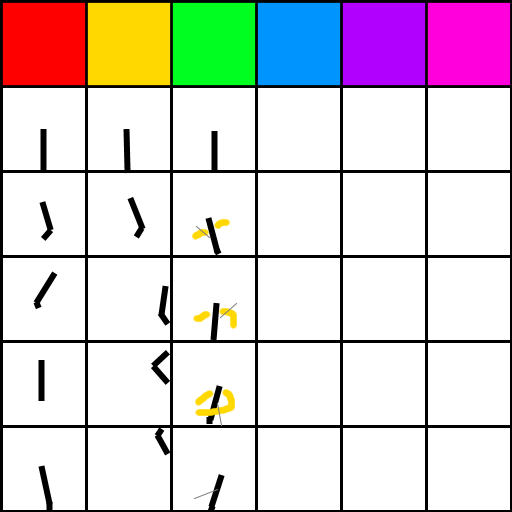
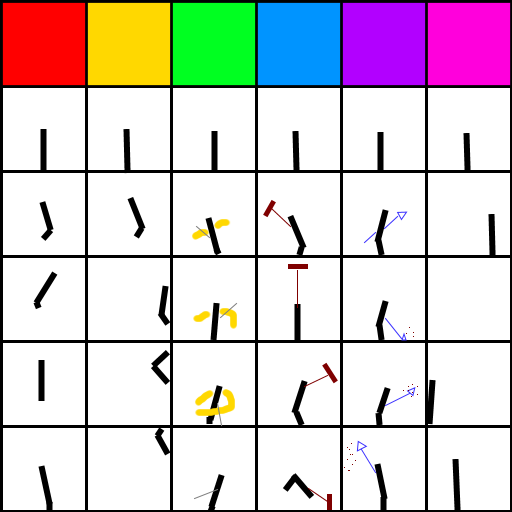
work in progress

diff --git a/MuddyGames-gameplay-programming-i-lab-03-60ce4b8b1ccb/AnimationFSM/Player.cpp b/MuddyGames-gameplay-programming-i-lab-03-60ce4b8b1ccb/AnimationFSM/Player.cpp
@@ -2,6 +2,7 @@
 #include <Player.h>
 #include <Idle.h>
 #include <Debug.h>
+#include <State.h>
 
 Player::Player()
 {
@@ -9,7 +10,7 @@ Player::Player()
 	m_state.setPrevious(new Idle());
 }
 
-Player::Player(const AnimatedSprite& s, const AnimatedSprite& s1, const AnimatedSprite& s2, const AnimatedSprite& s3) : m_animated_sprite(s),
+Player::Player(const AnimatedSprite& s, const AnimatedSprite& s1, const AnimatedSprite& s2, const AnimatedSprite& s3) : m_idle_sprite(s),
 m_jump_animation(s1),
 m_climb_animation(s2),
 m_sword_animation(s3)
@@ -22,9 +23,9 @@ Player::~Player() {}
 
 AnimatedSprite& Player::getAnimatedSprite()
 {
-	int frame = m_animated_sprite.getCurrentFrame();
-	m_animated_sprite.setTextureRect(m_animated_sprite.getFrame(frame));
-	return m_animated_sprite;
+	int frame = m_idle_sprite.getCurrentFrame();
+	m_idle_sprite.setTextureRect(m_idle_sprite.getFrame(frame));
+	return m_idle_sprite;
 }
 
 void Player::handleInput(Input in)
@@ -39,14 +40,26 @@ void Player::handleInput(Input in)
 		break;
 	case Input::Action::UP:
 		//std::cout << "Player Up" << std::endl;
-		m_state.climbing();
+		m_state.jumping();
 		break;
 	case Input::Action::LEFT:
 		//std::cout << "Player Left" << std::endl;
-		m_state.jumping();
+		m_state.walking();
 		break;
 	case Input::Action::RIGHT:
-		//std::cout << "Player Idling" << std::endl;
+		//std::cout << "Player Right" << std::endl;
+		m_state.walking();
+		break;
+	case Input::Action::CLIMB:
+		//std::cout << "Player Climbing" << std::endl;
+		m_state.climbing();
+		break;
+	case Input::Action::SHOVEL:
+		//std::cout << "Player Shovelling" << std::endl;
+		m_state.shovelling();
+		break;
+	case Input::Action::JUMP:
+		//std::cout << "Player Jumping" << std::endl;
 		m_state.jumping();
 		break;
 	default:
@@ -57,5 +70,6 @@ void Player::handleInput(Input in)
 void Player::update()
 {
 	//std::cout << "Handle Update" << std::endl;
-	m_animated_sprite.update();
+	m_idle_sprite.update();
+	//m_sword_animation.update();
 }

diff --git a/MuddyGames-gameplay-programming-i-lab-03-60ce4b8b1ccb/AnimationFSM/Idle.cpp b/MuddyGames-gameplay-programming-i-lab-03-60ce4b8b1ccb/AnimationFSM/Idle.cpp
@@ -11,11 +11,45 @@ void Idle::jumping(PlayerFSM* a)
 {
 	std::cout << "Idle -> Jumping" << std::endl;
 	a->setCurrent(new Jumping());
+	a->setPrevious(new Idle());
 	delete this;
 }
 void Idle::climbing(PlayerFSM* a)
 {
 	std::cout << "Idle -> Climbing" << std::endl;
 	a->setCurrent(new Climbing());
+	a->setPrevious(new Idle());
+	delete this;
+}
+
+void Idle::sworsmanship(PlayerFSM * a)
+{
+	std::cout << "Idle -> Swordsmanship" << std::endl;
+	a->setCurrent(new Jumping());
+	a->setPrevious(new Idle());
+	delete this;
+}
+
+void Idle::walking(PlayerFSM * a)
+{
+	std::cout << "Idle -> Walking" << std::endl;
+	a->setCurrent(new Jumping());
+	a->setPrevious(new Idle());
+	delete this;
+}
+
+void Idle::shovelling(PlayerFSM * a)
+{
+	std::cout << "Idle -> Shovelling" << std::endl;
+	a->setCurrent(new Jumping());
+	a->setPrevious(new Idle());
+	delete this;
+}
+
+void Idle::hammering(PlayerFSM * a)
+{
+	std::cout << "Idle -> Hammering" << std::endl;
+	a->setCurrent(new Jumping());
+	a->setPrevious(new Idle());
 	delete this;
 }

diff --git a/MuddyGames-gameplay-programming-i-lab-03-60ce4b8b1ccb/AnimationFSM/main.cpp b/MuddyGames-gameplay-programming-i-lab-03-60ce4b8b1ccb/AnimationFSM/main.cpp
@@ -85,6 +85,22 @@ int main()
 				{
 					input.setCurrent(Input::Action::UP);
 				}	
+				else if (sf::Keyboard::isKeyPressed(sf::Keyboard::Space))
+				{
+					input.setCurrent(Input::Action::SWORD);
+				}
+				else if (sf::Keyboard::isKeyPressed(sf::Keyboard::H))
+				{
+					input.setCurrent(Input::Action::HAMMER);
+				}
+				else if (sf::Keyboard::isKeyPressed(sf::Keyboard::S))
+				{
+					input.setCurrent(Input::Action::SHOVEL);
+				}
+				else if (sf::Keyboard::isKeyPressed(sf::Keyboard::C))
+				{
+					input.setCurrent(Input::Action::CLIMB);
+				}
 				break;
 			default:
 

diff --git a/MuddyGames-gameplay-programming-i-lab-03-60ce4b8b1ccb/AnimationFSM/State.h b/MuddyGames-gameplay-programming-i-lab-03-60ce4b8b1ccb/AnimationFSM/State.h
@@ -27,6 +27,22 @@ public:
 	{
 		DEBUG_MSG("State::Climbing");
 	}
+	virtual void hammering(PlayerFSM* a)
+	{
+		DEBUG_MSG("State::Climbing");
+	}
+	virtual void shovelling(PlayerFSM* a)
+	{
+		DEBUG_MSG("State::Shovelling");
+	}
+	virtual void swordsmanship(PlayerFSM* a)
+	{
+		DEBUG_MSG("State::Swordsmanship");
+	}
+	virtual void walking(PlayerFSM* a)
+	{
+		DEBUG_MSG("State::Walking");
+	}
 };
 
 #endif // ! ANIMATION_H

diff --git a/MuddyGames-gameplay-programming-i-lab-03-60ce4b8b1ccb/AnimationFSM/Swordsmanship.h b/MuddyGames-gameplay-programming-i-lab-03-60ce4b8b1ccb/AnimationFSM/Swordsmanship.h
@@ -1,12 +1,17 @@
-#ifndef SWORDSMANSHIP.H
-#define SWORDSMANSHIP.H
+#ifndef SWORDSMANSHIP_H
+#define SWORDSMANSHIP_H
 
 #include"State.h"
 
 class Swordsmanship : public State
 {
 public:
-
+	Swordsmanship() {};
+	~Swordsmanship() {};
+	void handleInput();
+	void update();
+	void idle(PlayerFSM* a);
+	void jumping(PlayerFSM* a);
 };
 
 #endif // !SWORDSMANSHIP

diff --git a/MuddyGames-gameplay-programming-i-lab-03-60ce4b8b1ccb/AnimationFSM/PlayerMachine.cpp b/MuddyGames-gameplay-programming-i-lab-03-60ce4b8b1ccb/AnimationFSM/PlayerMachine.cpp
@@ -42,3 +42,23 @@ void PlayerFSM::climbing()
 {
 	m_current->climbing(this);
 }
+
+void PlayerFSM::walking()
+{
+	m_current->walking(this);
+}
+
+void PlayerFSM::hammering()
+{
+	m_current->hammering(this);
+}
+
+void PlayerFSM::swordsmanship()
+{
+	m_current->swordsmanship(this);
+}
+
+void PlayerFSM::shovelling()
+{
+	m_current->shovelling(this);
+}

diff --git a/MuddyGames-gameplay-programming-i-lab-03-60ce4b8b1ccb/AnimationFSM/Swordsmanship.cpp b/MuddyGames-gameplay-programming-i-lab-03-60ce4b8b1ccb/AnimationFSM/Swordsmanship.cpp
@@ -1,0 +1,21 @@
+#include "Swordsmanship.h"
+#include "Jumping.h"
+
+void Swordsmanship::handleInput()
+{
+}
+
+void Swordsmanship::update()
+{
+}
+
+void Swordsmanship::idle(PlayerFSM * a)
+{
+}
+
+void Swordsmanship::jumping(PlayerFSM * a)
+{
+	std::cout << "Idle -> Jumping" << std::endl;
+	a->setCurrent(new Jumping());
+	delete this;
+}

diff --git a/MuddyGames-gameplay-programming-i-lab-03-60ce4b8b1ccb/AnimationFSM/Shovelling.h b/MuddyGames-gameplay-programming-i-lab-03-60ce4b8b1ccb/AnimationFSM/Shovelling.h
@@ -1,12 +1,17 @@
-#ifndef SHOVELLING.H
-#define SHOVELLING.H
+#ifndef SHOVELLING_H
+#define SHOVELLING_H
 
 #include"State.h"
 
 class Shovelling : public State
 {
 public:
-
+	Shovelling() {};
+	~Shovelling() {};
+	void handleInput();
+	void update();
+	void idle(PlayerFSM* a);
+	void jumping(PlayerFSM* a);
 };
 
 #endif // !SHOVELLING.H

diff --git a/MuddyGames-gameplay-programming-i-lab-03-60ce4b8b1ccb/AnimationFSM/Shovelling.cpp b/MuddyGames-gameplay-programming-i-lab-03-60ce4b8b1ccb/AnimationFSM/Shovelling.cpp
@@ -1,0 +1,21 @@
+#include "Shovelling.h"
+#include "Jumping.h"
+
+void Shovelling::handleInput()
+{
+}
+
+void Shovelling::update()
+{
+}
+
+void Shovelling::idle(PlayerFSM * a)
+{
+}
+
+void Shovelling::jumping(PlayerFSM * a)
+{
+	std::cout << "Idle -> Jumping" << std::endl;
+	a->setCurrent(new Jumping());
+	delete this;
+}

diff --git a/MuddyGames-gameplay-programming-i-lab-03-60ce4b8b1ccb/AnimationFSM/Hammering.cpp b/MuddyGames-gameplay-programming-i-lab-03-60ce4b8b1ccb/AnimationFSM/Hammering.cpp
@@ -1,0 +1,21 @@
+#include "Hammering.h"
+#include "Jumping.h"
+
+void Hammering::handleInput()
+{
+}
+
+void Hammering::update()
+{
+}
+
+void Hammering::idle(PlayerFSM * a)
+{
+}
+
+void Hammering::jumping(PlayerFSM * a)
+{
+	std::cout << "Idle -> Jumping" << std::endl;
+	a->setCurrent(new Jumping());
+	delete this;
+}

diff --git a/MuddyGames-gameplay-programming-i-lab-03-60ce4b8b1ccb/AnimationFSM/Walking.h b/MuddyGames-gameplay-programming-i-lab-03-60ce4b8b1ccb/AnimationFSM/Walking.h
@@ -1,12 +1,17 @@
-#ifndef WALKING.H
-#define	WALKING.H
+#ifndef WALKING_H
+#define	WALKING_H
 
 #include"State.h"
 
 class Walking : public State
 {
 public:
-
+	Walking() {};
+	~Walking() {};
+	void handleInput();
+	void update();
+	void idle(PlayerFSM* a);
+	void jumping(PlayerFSM* a);
 };
 
 #endif // !WALKING.H

diff --git a/MuddyGames-gameplay-programming-i-lab-03-60ce4b8b1ccb/AnimationFSM/Walking.cpp b/MuddyGames-gameplay-programming-i-lab-03-60ce4b8b1ccb/AnimationFSM/Walking.cpp
@@ -1,0 +1,21 @@
+#include "Walking.h"
+#include "Jumping.h"
+
+void Walking::handleInput()
+{
+}
+
+void Walking::update()
+{
+}
+
+void Walking::idle(PlayerFSM * a)
+{
+}
+
+void Walking::jumping(PlayerFSM * a)
+{
+	std::cout << "Idle -> Jumping" << std::endl;
+	a->setCurrent(new Jumping());
+	delete this;
+}
